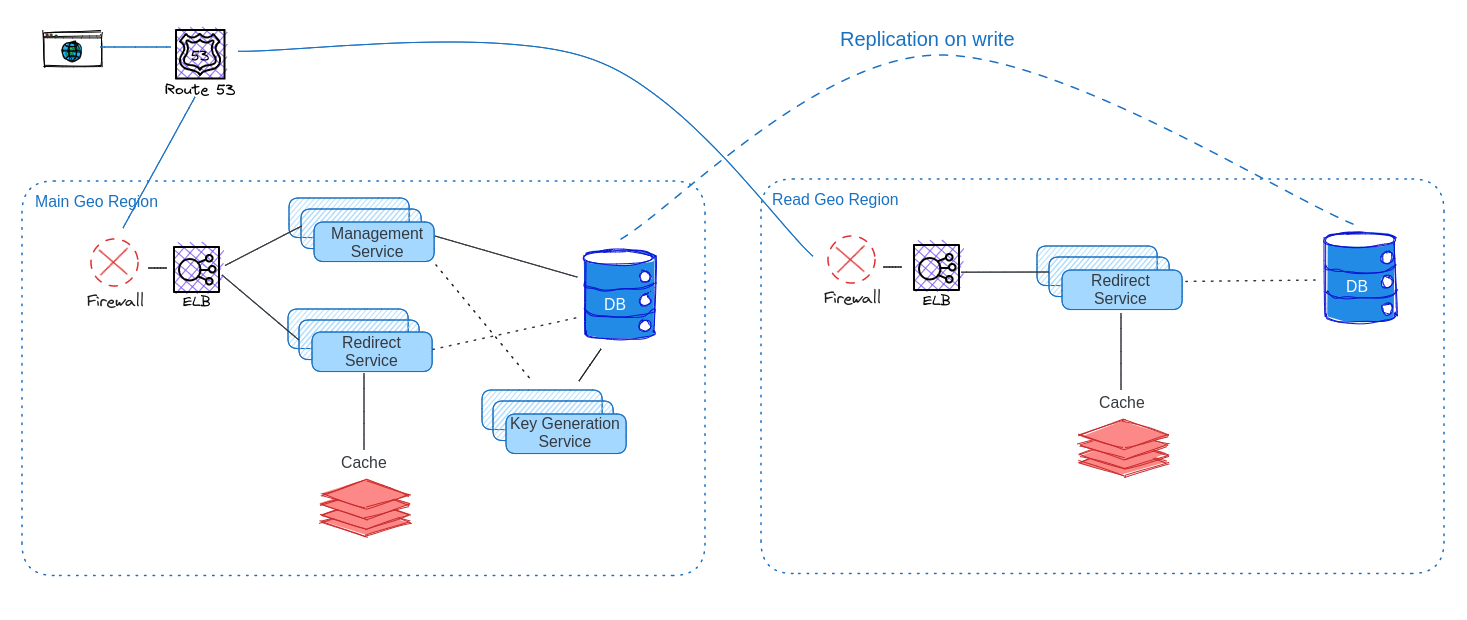
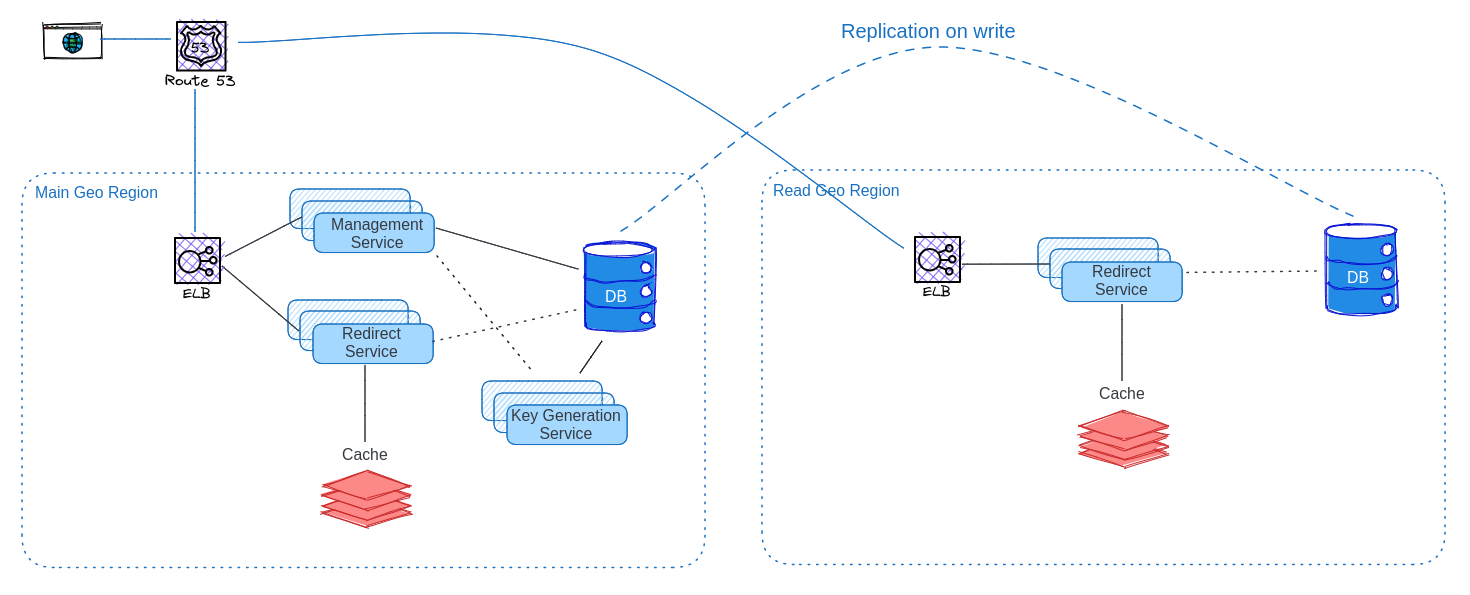
update url shortener

diff --git a/system-design/url-shortener/Readme.MD b/system-design/url-shortener/Readme.MD
@@ -1,182 +1,150 @@
 # URL Shortener Service
 
-## Step 1: Business case
+## Step 1: Business Case
 
-URL shortener that will take URL and create shorted version of URL
+The URL shortener service is designed to generate shortened versions of long URLs and redirect users to the original URLs when accessed. The following requirements should be considered:
 
-Requirements:
-- User redirected to the original URL when accessed to the short version
-- User can add custom URL path, like: short.io/custom-name
-- User can track simple analytics(Number of views), using admin-key 
-generated with URL like: short.io/custom-name?adminkey=Dd3*Hf92
-- User can add up to 10 URL/day
-- Service should be able to work with 100M requests/day
-- Service should be able to simply scale up/down if needed
-- Service will save shortened URL for 2 month
- 
+- Users should be redirected to the original URL when accessing the short version.
+- Users can add custom URL paths like "short.io/custom-name"
+- Users can track simple analytics such as the number of views using an admin key generated with the URL.
+- Users are limited to adding up to 10 URLs per day.
+- The service should be capable of handling 100 million requests per day.
+- The service should be able to scale up or down easily.
+- Shortened URLs should be saved for a period of two months.
+
 ## Step 2: KPM & Constraints
 
-Key Performance Metrics
-- Redirect response latency < 50ms
-- Up time 99,99%
-- Severs load 80%
-- Analytics lag time up to 10min
+Key Performance Metrics:
+- Redirect response latency: <50ms
+- Uptime: 99.99%
+- Server load: 80%
+- Analytics lag time: up to 10 minutes
 
-### Constraints Start
-Requirements for project launch
+Constraints:
+- Initial launch traffic:
+  - Reads/Writes ratio: 100:1
+  - Daily Reads: 99 million requests
+  - Daily Writes: 1 million requests
+  - Linear load
+  - Read RPS (Requests Per Second): 1,145
+  - Write RPS: 12
+- Bandwidth:
+  - Write: 20KB/s
+  - Read: 0.7MB/s
+- Storage:
+  - Database (DB): 27GB for two months (with growth coefficient)
+  - Cache: 8.1GB for two months (30% of DB storage)
 
-Traffic:
-- Reads/Writes = 100/1
-- Reads/Day = 99M/req
-- Writes/Day = 1M/req
-- Linear Load
-- Read RPS = 1145
-- Write RPS = 12
+## Step 3: Data to be Saved
 
-Bandwidth:
-- Write = 12*500B = 20KB/s 
-- Read = 1145*100B + 1145*500B = 0.7MB/s
+The data to be saved in the URL shortener service includes:
 
-Storage:
-- DB 1M * 60days * 500B = 27GB/2 month (add some coef. for growth for few years)
-- Cache 30% =  27*0.3 = 8.1GB/2 month
-
-### Constraints Base
-Requirements for project after some time of work
-------//------
-
-### Constraints Load
-Requirements for project when best business scenario met
-------//------
-
-## Step 3: What data do we save
-Here we describing the data with which we will be working.
-It's not about DB schema, etc. It just to understand better what 
-we working with, so to understand how this data can be handled
-in the best way
- 
 Short URL object:
-- original URL
-- short URL
-- admin key
-- created_at
+- Original URL
+- Short URL
+- Admin key
+- Created timestamp
 
-## Step 4: What 3rd party components we will use
+Stats object:
+- Short URL
+- Number of views
 
-Here we need to choose what components we can use for our solution:
-DBs, Caches, Balancers, Reverse Proxies, Programming language, etc..
+## Step 4: Third-Party Components
 
-The main idea here is to pick what you are familiar with if it fit good for solution.
-In case if you don't have a good fit, new component that you don't familiar with 
-should be hard tested before use!
+The following third-party components can be considered for the solution:
 
-DB: 
-As our data is small, have no relations and used only for read(only 1* time write)
-we can use Key/Value or Column DB.
-AWS DynamoDB, ScylaDB, Cassandra, Redis, Couchbase, etc
+Database (DB):
+- AWS DynamoDB, ScylaDB, Cassandra, Redis, Couchbase, etc.
 
 Cache:
-Redis, AWS ElastiCache, Memcahced
+- Redis, AWS ElastiCache, Memcached
 
-Now check prices/features for each
-For example Redis vs AWS ElastiCache
-AWS EC2 Instance RAM 48GB, 24CPU, 25Gb/s - 870$/month
-AWS ElastiCache RAM 52GB, 24CPU, 10Gb/s - 870$/month
+Components should be evaluated based on features, pricing, and suitability for the solution. In this case, Redis running on an EC2 instance is chosen to minimize the number of different software used, simplify management, and reduce licensing costs.
 
-Let's assume that for db and cache we will use Redis on EC2 instance.
+## Step 5: High-Level Design
 
-**Why?**
-
-This will minimize amount of different software that we will use, which is good,
-as it minimize human resources needed and payment for licences if needed.
-
-Also redis is good fit as K/V store and Cache, and also using some idea farther
-we will drastically minimize amount of stored data. So our cache will be our DB.
-
-## Step 5: High-level design
-
-Here we build helicopter view on our architecture, describing the most 
-top blocks and processes of our architecture.
-
-As we need minimum latency we will need to use geo replication, to move servers,
-to the location near to client. But we will do this only for pages with redirect.
-For managing urls we will use one geo location, as we dont need such speed on write,
-and this will simplify and make less expensive our solution.
-
-That's why we have two types of services: for redirecting and for managing urls
-
-We also will need service that will generate short urls for us and will store
-(used/free/else urls data). So we have some batch already pregenerated urls
+The high-level design of the architecture includes two types of services: one for redirecting and another for managing URLs. Geo-replication is used to reduce latency for redirecting pages, while URL management services are hosted in a single geo-location to simplify the solution and reduce costs.
 
 ![High-level design](high-level-design.png)
 
-## Step 6: Thinking and pre-testing
+## Step 6: Analysis and Pre-testing
 
-At this stage we already now what we want and from what blocks it may be build.
-Here we trying to understand deeper how all these things will work, what and how
-we will be using. 
+At this stage, we have a clear understanding of our requirements and the components needed to build the system. Here, we delve deeper into understanding how these components will work and the specifics of their usage. Additionally, we conduct pre-tests to validate certain statements and address questions such as:
 
-Also we need to test some of our statements that may arise, like: 
-- Can Redis handle such load with good latency on read?
-- How we will replicate redis cluster to different geo-location, is it possible?
-- Etc.
+- Can Redis handle the anticipated load with good read latency?
+- How can we replicate the Redis cluster to different geo-locations? Is it possible?
+- And other relevant questions.
 
-### Simplify Key Generation Service
-Most of the internet for such URL shortener saying that we need KG Service with
-additional DB for saving keys. But it will cost more and i dont like it. So
-we will make it simpler.
+### Simplified Key Generation Service
 
-Instead of managing used/free urls, we will just save one counter and thats all.
-So instead saving 2-30GBs we will need to save few bytes only.
+Most URL shortener recommendations on the internet suggest using a Key Generation (KG) Service with an additional database for saving keys. However, this approach can be costly and unnecessary. Instead, I propose a simplified method.
 
-We have 7 symbols in our URL, from `aaaaaaa` to `zzzzzzz`. 
-That's 8B combinations. Let's assume that `aaaaaaa` == 1 and 
-`zzzzzzz` == 8B, `aaaaaab` == 2.
-So what we need is just increment counter for a new url and translate counter 
-to string based on our algorithm.
-To minimize load on DB we can generate in batches by 100-1000, depends on load.
-Also batch will give some randomness in url names.
+Rather than managing used/free URLs, we only need to save a counter. This approach significantly reduces storage requirements, from 2-30GB to just a few bytes.
 
-We have 1M new urls per day, so 60M per 2 month. Each url lives only 2 month.
-So when we will achieve 8B on our counter, url under index 1 will be already free to use.
-So we have something like round-robing algorithm here.
+Given that we have 7 symbols in our URL range, from `aaaaaaa` to `zzzzzzz`, we have 8 billion combinations. Let's assume `aaaaaaa` represents 1 and `zzzzzzz` represents 8 billion, with `aaaaaab` being 2, and so on. To generate a new URL, we increment the counter and translate it into a string based on our algorithm. To minimize the load on the database, we can generate URLs in batches of 100-1000, depending on the load. Using batches also introduces some randomness to the URL names.
 
-The only thing that you will need to monitor here is that url adding rate was 
-less than capacity of the 7symbols url.
+Considering that we have 1 million new URLs per day, totaling 60 million URLs over two months, and each URL has a lifespan of only 2 months, once we reach 8 billion on our counter, the URL under index 1 will already be available for reuse. This implementation resembles a round-robin algorithm.
+
+The only aspect to monitor is that the rate at which URLs are added remains below the capacity of the 7-symbol URL range.
 
 ### Redis TTL
-We use redis as it gives grate functionality for our use case.
-One of which is Key TTL, which removing from us need to write code for removing 
-urls after some time.
 
-### Cluster replication
-Free Redis doesnt have cluster replication functionality, but we can simply add it
-by creating proxy service that will replicate all comands from main cluster 
-to read clusters. This is simple task because of simplicity of redis protocol.
+Redis is an excellent choice for our use case, offering valuable functionality, including Key Time-To-Live (TTL), which eliminates the need for manual removal of expired URLs.
 
-It can be both Sync and Async task depends on speed and number of GEO clusters.
+### Cluster Replication
 
-### Views statistics
-For robust stats we will definitelly will need additional service group, 
-but to save just views not.
+While free Redis does not provide cluster replication functionality, we can easily add it by creating a proxy service that replicates all commands from the main cluster to the read clusters. The simplicity of the Redis protocol makes this task straightforward.
 
-But saving views during high-load also not very straightforward task.
-We cant just run increment on redis, because even if it fast, millions of reads,
-will create huge load for DB even in-memory one(Always protect DBs from HL).
+The replication can be both synchronous and asynchronous, depending on the speed and number of geo-clusters. Additionally, we need to implement write-ahead logs for all replication operations to ensure data integrity in the event of service failures.
 
-So what we will do? On each redirect instance will be a thread that will save 
-stats once a time/memory limits. Before that all views will besaved only in 
-instance memory/disk. This will minimize number of calls to DB.
+### View Statistics
 
-There is also another probabalistic hack that was popular 15 years ago.
-We set a write probability, for example 20%. And once it will shoot, 
-we will increment our views not by one, but by 5 (100/20). 
-As you understand it not precise on small numbers, but on big one preaty good.
+While robust statistics require an additional service group, for saving views alone, we can employ a different approach.
 
-But we will use first one aproach, as the second not guruntee that randomnes 
-will not shoot in our leg.
+Saving views during high-load situations is not a straightforward task. Simply incrementing the count on Redis would create a significant load on the database, even if it's an in-memory database. To mitigate this, each redirect instance will have a thread dedicated to saving statistics at specified time intervals or memory limits. Before saving, views will be stored in the instance's memory or disk, minimizing the number of calls made to the database.
 
-### Now we are ready to build detailed architecture
+An alternative probabilistic method that was popular 15 years ago is setting a write probability, such as 20%. Once triggered, the view count increments not by one, but by 5 (100/20). While this approach is imprecise with small numbers, it performs reasonably well with large numbers. However, we will utilize the first approach as the second does not guarantee that randomness will not lead to potential issues.
+
+The statistics will be saved through a service in the main geo cluster, with the possibility of replacing it with a more robust solution in the future.
+
+### Docker Container Deployment
+
+To simplify deployment, testing, reproducibility, and enhance dependency isolation, we will run all our services inside Docker containers. Although this may introduce a small overhead, it significantly streamlines the development process. It is important to remember that the cost of servers is not the only consideration; the cost of developers is often higher.
+
+## Step 7: Detailed Design
+
+Detailed design involves breaking down complex components into separate schemes and describing processes in more detail.
+
+![Detailed design](detailed-design.png)
+
+## Step 8: Contingency Planning
+
+In this step, we need to understand how to handle different types of failures and plan for contingencies. For example:
+
+### What if Stats Service Fails?
+If the Stats Service fails, we have a couple of options to handle the situation:
+- Save data on instances for a longer period until the service is restored.
+- Store data on an S3 bucket, which can be read and synced when the service becomes operational again.
+
+### What if Data Service Fails?
+If the Data Service fails, we will take the following actions:
+- Stop adding new URLs temporarily.
+- The redirect service will use a direct backup connection to the Redis cluster.
+- With the use of Write-Ahead Logs (WAL) in our Data Service, once the server is back online, it will reproduce all data that was not previously replicated.
+
+These contingency plans ensure that data is safeguarded and operations can resume smoothly in the event of service failures.
+
+## Step 9: Writing Documentation
+
+Documentation is created to provide detailed instructions for developers, including comprehensive information about the system's architecture, components, and processes.
+
+## Step 10: Development & Integration Plan
+
+A development and integration plan is formulated based on the designed architecture, outlining the steps required for implementing the system.
+
+## Step 11: Development and Control
+
+As an architect, it is essential to oversee the development process and ensure that the system is being implemented according to the designed architecture.
 
 
 PS: For drawing I used this service: https://excalidraw.com/
